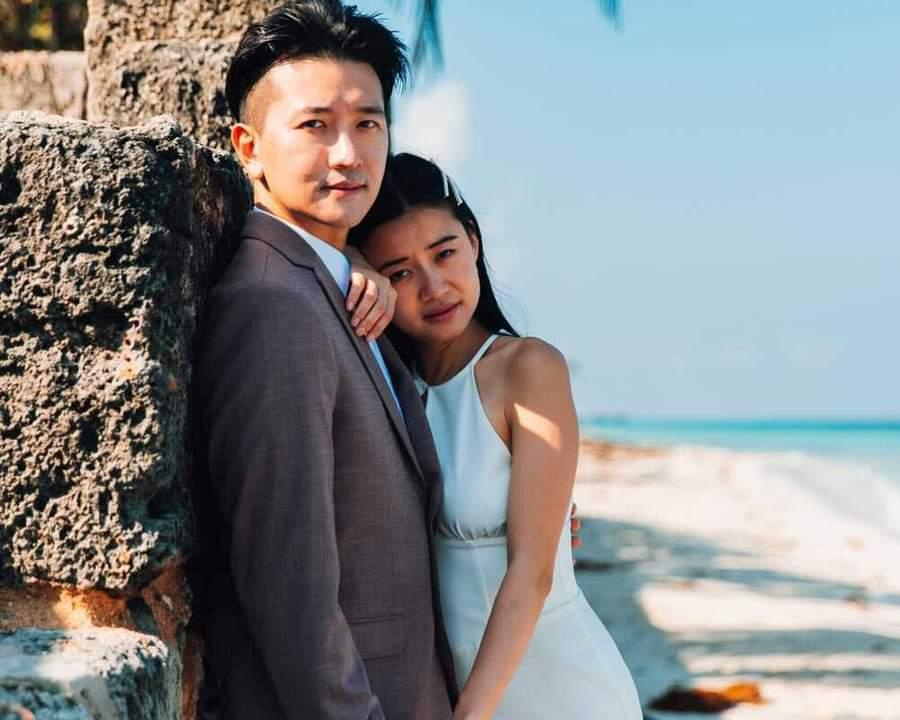
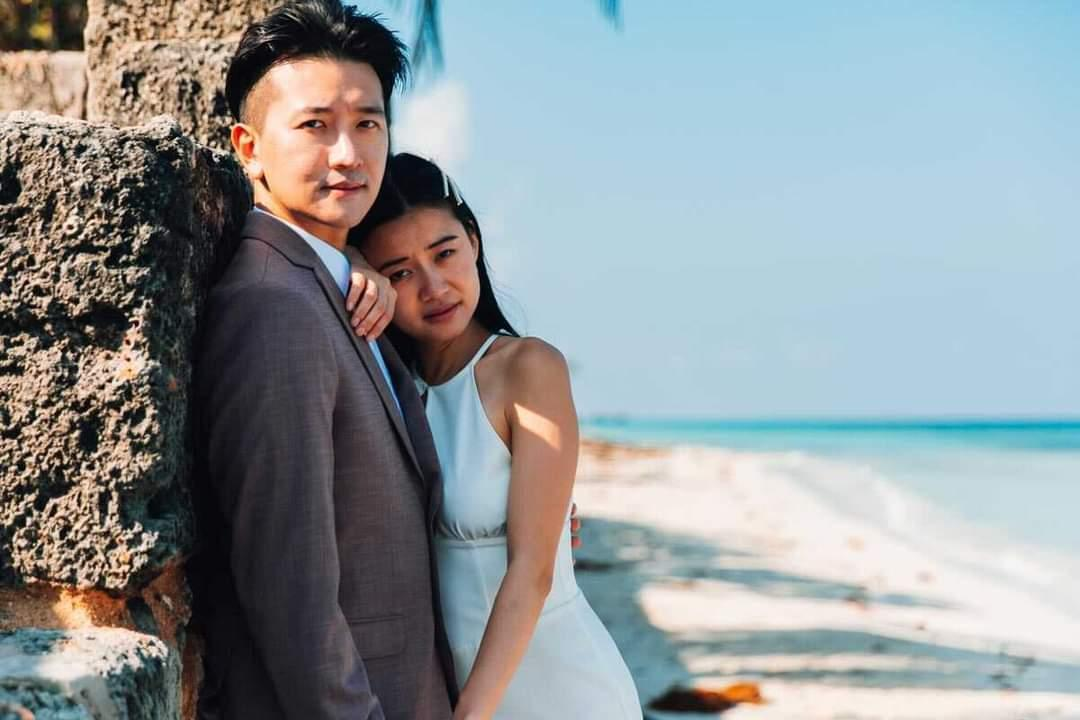
update css

diff --git a/wedding-invitation/index.html b/wedding-invitation/index.html
@@ -14,10 +14,8 @@
     <link href="https://fonts.googleapis.com/css?family=Great+Vibes" rel="stylesheet">
     <link href="css/ekko-lightbox.css" rel="stylesheet">
     <link href="styles/main.css" rel="stylesheet">
-    <link href="https://fonts.googleapis.com/css?family=Gamja+Flower|Gugi|Noto+Serif+KR|Stylish|Sunflower:300"
-          rel="stylesheet">
+    <link href="https://fonts.googleapis.com/css?family=Gamja+Flower|Gugi|Noto+Serif+KR|Stylish|Sunflower:300" rel="stylesheet">
     <script src="https://code.jquery.com/jquery-2.2.1.js"></script>
-
 
     <link href="https://maxcdn.bootstrapcdn.com/font-awesome/4.7.0/css/font-awesome.min.css" rel="stylesheet">
 

diff --git a/wedding-invitation/styles/main.css b/wedding-invitation/styles/main.css
@@ -9758,7 +9758,8 @@ body {
 .ww-home-page {
     background: linear-gradient(rgba(0, 0, 0, 0.2), rgba(0, 0, 0, 0.2)), url("../images/main-background.jpg") no-repeat center center;
     background-size: cover;
-    background-position: 50%;
+    background-position: 30%;
+    background-position-y: 0px;
     height: 100vh;
     min-height: 480px;
 }
